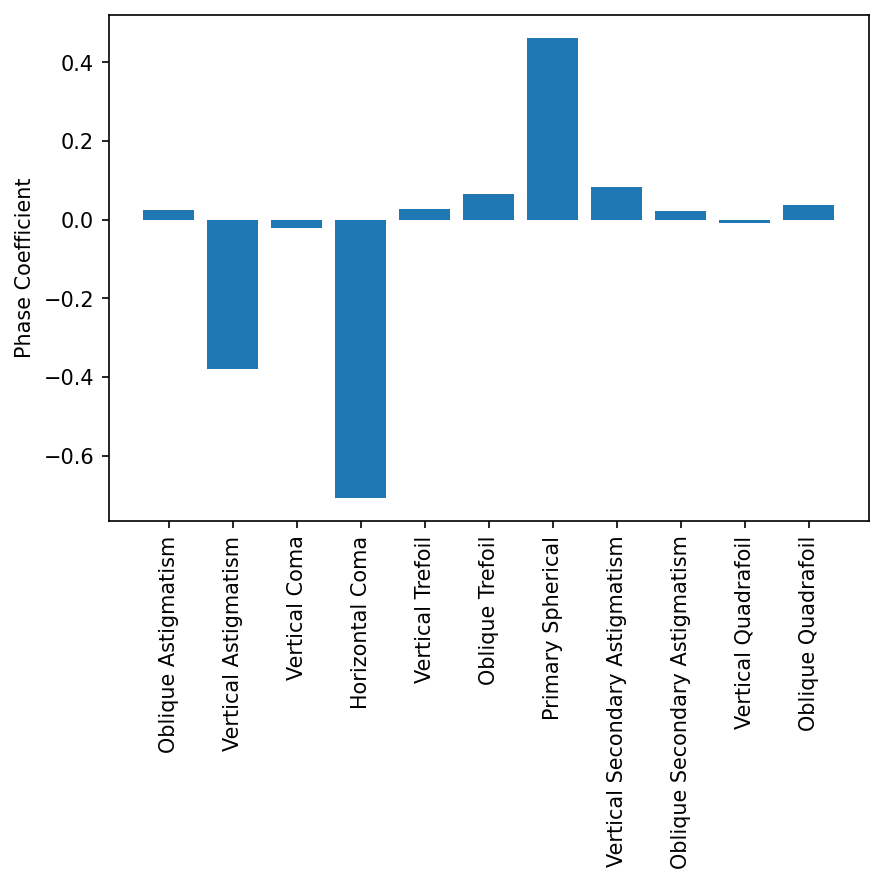
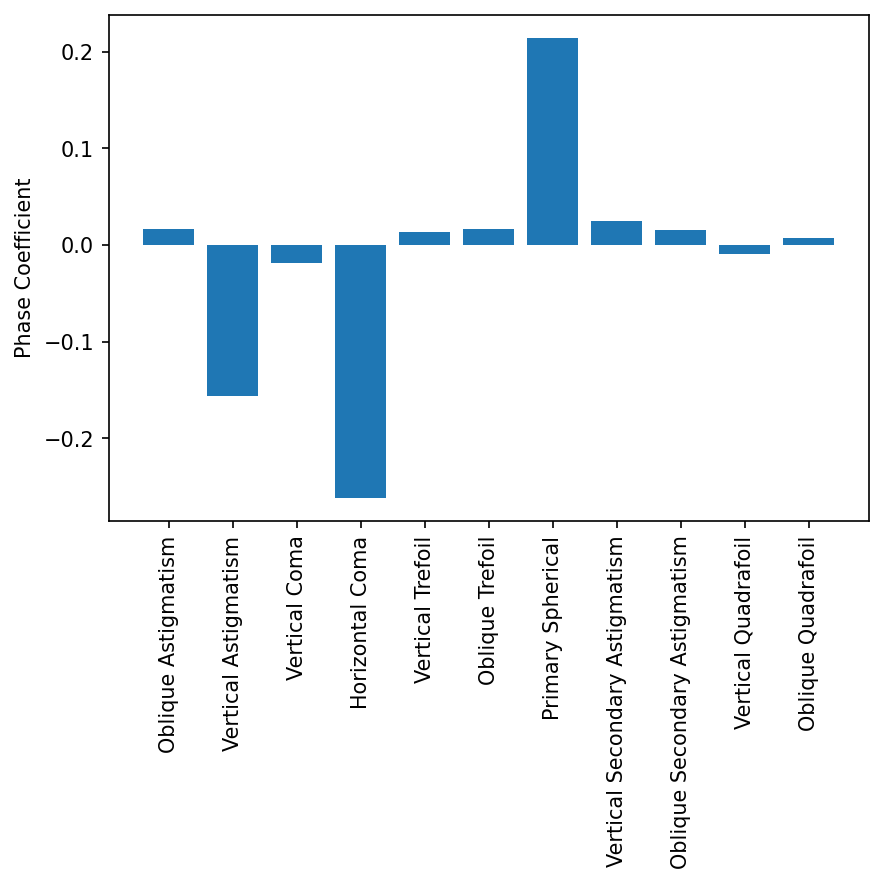
update for rms waves and prep_for_PR

diff --git a/figures.py b/figures.py
@@ -83,13 +83,11 @@ def aberration_plots(model_kwargs):
     model_kwargs["condition"] = "sine"
     model = HanserPSF(**model_kwargs)
 
-    mag = model.na / model.wl * model.res * 2 * np.pi
-
     fig, axs = plt.subplots(3, 5, figsize=(12, 8))
     # fill out plot
     for ax, name in zip(axs.ravel(), name2noll.keys()):
         print(f"Making {name} plot")
-        model2 = apply_named_aberration(model, name, mag * 2)
+        model2 = apply_named_aberration(model, name, 1)
         ax.imshow(
             model2.PSFi.squeeze()[104:-104, 104:-104], cmap="inferno", interpolation="bicubic"
         )
@@ -111,7 +109,7 @@ def zernike_plots():
     # fill out plot
     for ax, (k, v) in zip(axs.ravel(), noll2name.items()):
         print(f"Making {v} plot")
-        zern = zernike(r, theta, k)
+        zern = zernike(r, theta, k, norm=False)
         ax.imshow(
             np.ma.array(zern, mask=r > 1),
             vmin=-1,
@@ -131,9 +129,10 @@ def pr_plots():
     with warnings.catch_warnings():
         warnings.simplefilter("ignore")
         data = tif.imread("fixtures/psf_wl520nm_z300nm_x130nm_na0.85_n1.0.tif")
+        print(f"Data shape: {data.shape}")
 
     # prep data
-    data_prepped = prep_data_for_PR(data, 512, 1.1)
+    data_prepped = prep_data_for_PR(data, 128, 1.05)
 
     # set up model params
     params = dict(wl=520, na=0.85, ni=1.0, res=130, zres=300)

diff --git a/pyotf/otf.py b/pyotf/otf.py
@@ -719,9 +719,8 @@ if __name__ == "__main__":
         fig, axs = plt.subplots(2, 2, figsize=(9, 6), gridspec_kw=dict(width_ratios=(1, 2)))
 
         for psf, ax_sub in zip(psfs, axs):
-            print(psf)
             psf.plot_otf()
-            psf.plot_psf()
+            psf.plot_psf(interpolation="bicubic")
             # make coordinates
             ax_yx, ax_zx = ax_sub
             # get magnitude
@@ -751,13 +750,11 @@ if __name__ == "__main__":
     )
     model = HanserPSF(**model_kwargs)
 
-    mag = model.na / model.wl * model.res * 2 * np.pi
-
     with plt.style.context("dark_background"):
         fig, axs = plt.subplots(3, 5, figsize=(12, 8))
         # fill out plot
         for ax, name in zip(axs.ravel(), name2noll.keys()):
-            model2 = apply_named_aberration(model, name, mag * 2)
+            model2 = apply_named_aberration(model, name, 1)
             ax.imshow(
                 model2.PSFi.squeeze()[104:-104, 104:-104], cmap="inferno", interpolation="bicubic"
             )

diff --git a/pyotf/utils.py b/pyotf/utils.py
@@ -288,7 +288,7 @@ def prep_data_for_PR(data, xysize=None, multiplier=1.5):
     else:
         # if need to crop, crop and center and return
         my_slice = slice_maker(((ny + 1) // 2, (nx + 1) // 2), xysize)
-        return center_data(data_without_bg)[[Ellipsis] + my_slice]
+        return center_data(data_without_bg)[(Ellipsis,) + my_slice]
     # return centered data
     return np.fmax(0, pad_data)
 
